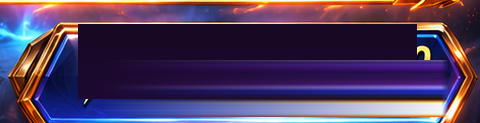
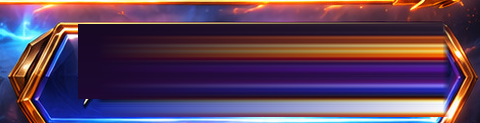
polish(legend): remove ghost digits behind Bonus Booster

diff --git a/scripts/build-square-master-ui.py b/scripts/build-square-master-ui.py
@@ -114,7 +114,8 @@ if __name__=='__main__':
     build_backdrop()
     build_frame()
     clean_panel('buy-panel.png',[(105,72,344,119)])
-    clean_panel('bonus-panel.png',[(100,60,448,117)])
+    # Cover the old printed top-right 2.50 and bottom ON/OFF, including edge glyphs.
+    clean_panel('bonus-panel.png',[(95,22,449,117)])
     clean_panel('credit-panel.png',[(70,68,310,97)])
     clean_panel('bet-panel.png',[(159,73,326,97)])
     project_layout()
